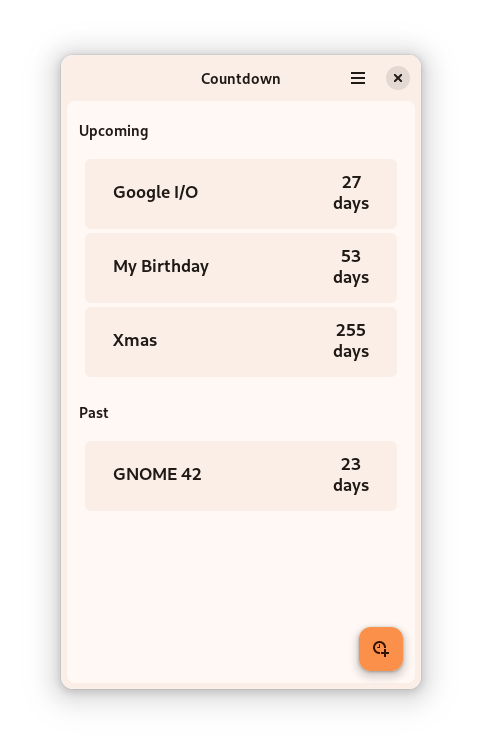
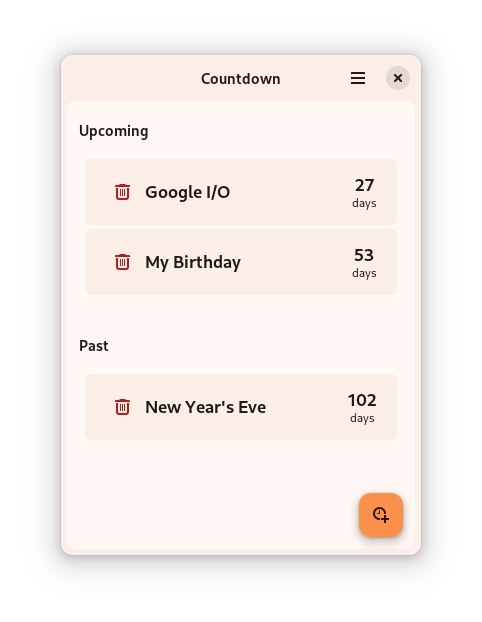
First

diff --git a/src/style-dark.css b/src/style-dark.css
@@ -10,3 +10,13 @@
 @define-color view_fg_color #eae1d9;
 @define-color headerbar_fg_color #eae1d9;
 @define-color borders alpha(#9b8f80, 0.5);
+
+.event-row button {
+  background: none;
+  color: #ffb4a9;
+  margin: 0;
+}
+.event-row button:hover {
+  background: #ffb4a9;
+  color: #680003;
+}
